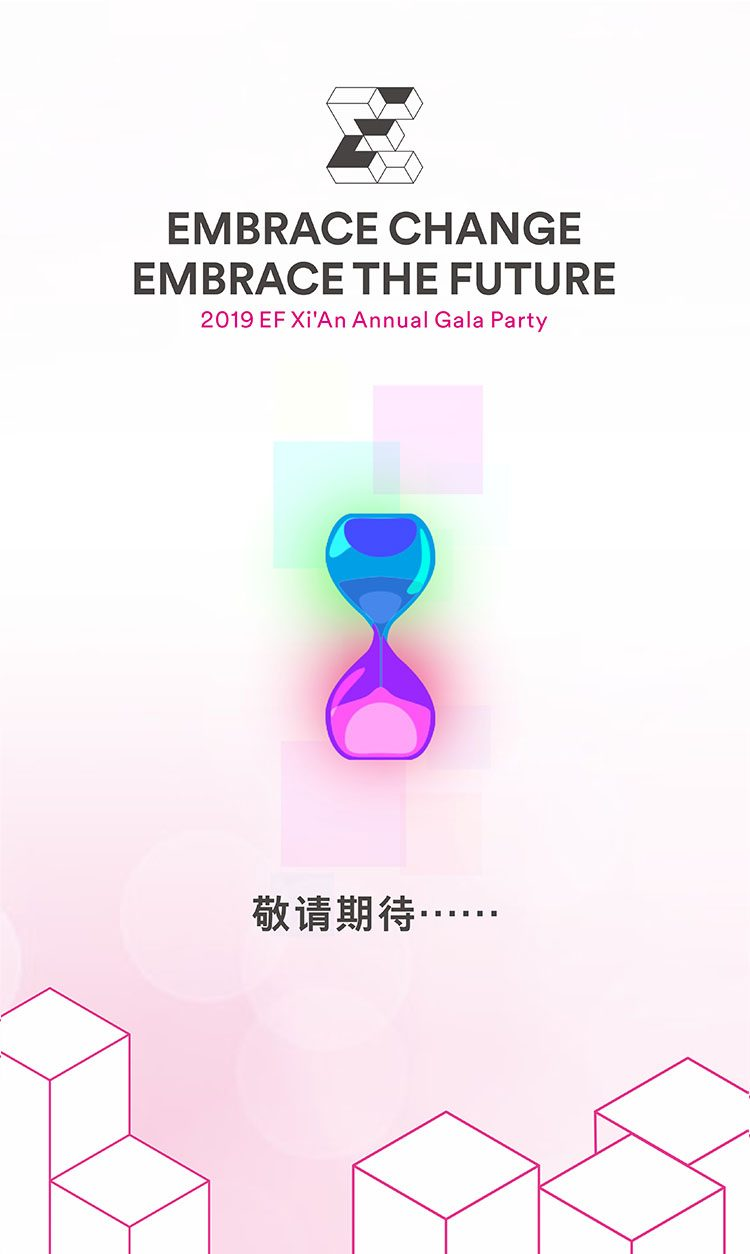
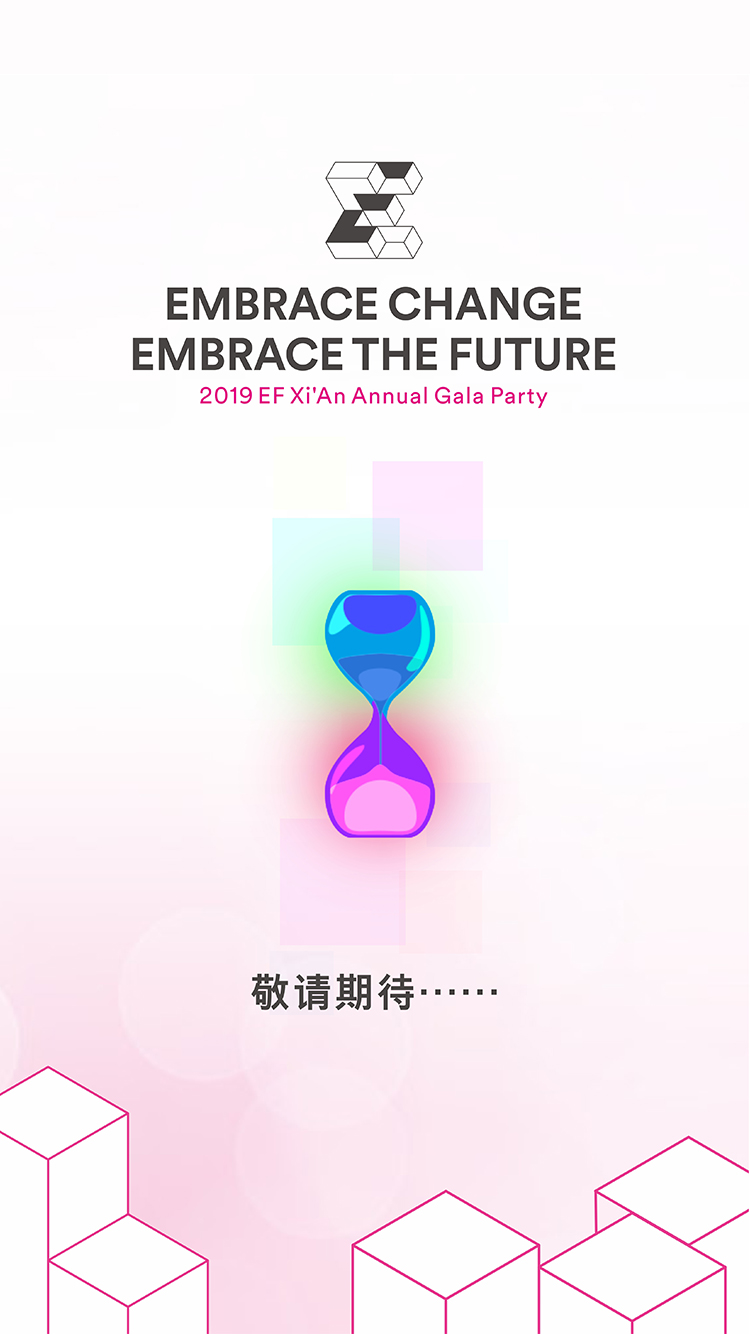
page

diff --git a/pages/Seat-mySeat/Seat-mySeat.vue b/pages/Seat-mySeat/Seat-mySeat.vue
@@ -1,7 +1,8 @@
 <template>
 	<view>
-		<view class="indexBJ" style=""></view>
 		
+		<view class="indexBJ"><image src="../../static/images/img0.jpg" mode=""></image></view>
+		<view class="flexCenter logoIcon"><image src="../../static/images/logo.png" mode="widthFix"></image></view>
 		<view class="campusNav fs13 center">
 			<view class="item" v-for="(item,index) in mainData" :key="index" :data-name="item.title"
 			@click="Router.navigateTo({route:{path:'/pages/details/details?name='+$event.currentTarget.dataset.name}})">{{item.title}}</view>
@@ -65,8 +66,12 @@
 </script>
 
 <style>
-	.indexBJ{width: 100%;height: 100%;background: url(../../static/images/img.jpg) no-repeat 0 0 /100% 100%;position: fixed;top: 0;right: 0; bottom: 0;left: 0;}
-	.campusNav{padding:55% 18% 0 18%;position:relative;z-index: 2;}
-	.campusNav .item{margin-bottom: 8rpx;border: 1px solid #e30083;border-radius: 20rpx;line-height: 60rpx;height: 60rpx;}
+	.indexBJ{width: 100%;height: 100%;position: fixed;top: 0;right: 0; bottom: 0;left: 0;}
+	.indexBJ image{width: 100%;height: 100%; display: block;}
+	
+	.logoIcon{margin: 60rpx 0 5% 0;position: relative;z-index: 6;}
+	.logoIcon image{width: 60%; display: block;}
+	.campusNav{position:relative;z-index: 2;}
+	.campusNav .item{width: 475rpx;margin:0 auto 8rpx auto;border: 1px solid #e30083;border-radius: 16rpx;line-height: 60rpx;height: 60rpx;}
 	
 </style>

diff --git a/pages/index/index.vue b/pages/index/index.vue
@@ -1,6 +1,6 @@
 <template>
 	<view>
-		<view class="indexBJ" style=""></view>
+		<view class="indexBJ" style=""><image src="../../static/images/img.jpg" mode=""></image></view>
 		
 		<view class="indexNav center flexRowBetween">
 			<view class="item" @click="Router.navigateTo({route:{path:'/pages/details/details?name=年会信息'}})">
@@ -56,8 +56,8 @@
 </script>
 
 <style>
-	/* @import "../../assets/style/navbar.css"; */
-	.indexBJ{width: 100%;height: 100%;background: url(../../static/images/img.jpg) no-repeat 0 0 /100% 100%;position: fixed;top: 0;right: 0; bottom: 0;left: 0;}
+	.indexBJ{width: 100%;height: 100%;position: fixed;top: 0;right: 0; bottom: 0;left: 0;}
+	.indexBJ image{width: 100%;height: 100%; display: block;}
 	
 	.indexNav{flex-wrap: wrap;align-items: flex-start;position: relative;z-index: 2;width: 100%;box-sizing: border-box;padding: 50% 8% 0 8%;}
 	.indexNav .item{width: 50%;margin-top: 80rpx;}

diff --git a/pages/Seat/Seat.vue b/pages/Seat/Seat.vue
@@ -1,6 +1,6 @@
 <template>
 	<view>
-		<view class="indexBJ" style=""></view>
+		<view class="indexBJ" style=""><image src="../../static/images/img.jpg" mode=""></image></view>
 		
 		<view class="indexNav center flexRowBetween">
 			<view class="item" @click="Router.navigateTo({route:{path:'/pages/Seat-mySeat/Seat-mySeat'}})">
@@ -46,8 +46,8 @@
 </script>
 
 <style>
-	/* @import "../../assets/style/navbar.css"; */
-	.indexBJ{width: 100%;height: 100%;background: url(../../static/images/img.jpg) no-repeat 0 0 /100% 100%;position: fixed;top: 0;right: 0; bottom: 0;left: 0;}
+	.indexBJ{width: 100%;height: 100%;position: fixed;top: 0;right: 0; bottom: 0;left: 0;}
+	.indexBJ image{width: 100%;height: 100%; display: block;}
 	
 	.indexNav{flex-wrap: wrap;align-items: flex-start;position: relative;z-index: 2;width: 100%;box-sizing: border-box;padding: 75% 8% 0 8%;}
 	.indexNav .item{width: 50%;}

diff --git a/pages/details/details.vue b/pages/details/details.vue
@@ -1,8 +1,8 @@
 <template>
 	<view>
 		<view class="" v-if="is_show">
-			<image  :class="name=='年会信息'?'detailPicA':'detailPic'"
-			:src="mainData.mainImg&&mainData.mainImg.length>0?mainData.mainImg[0].url:'../../static/images/img2.jpg'"  :mode="name=='年会信息'?'':'widthFix'"></image>
+			<image  :class="name=='年会信息'||(mainData.mainImg&&mainData.mainImg.length==0)?'detailPicA':'detailPic'"
+			:src="mainData.mainImg&&mainData.mainImg.length>0?mainData.mainImg[0].url:'../../static/images/img2.jpg'"  :mode="name=='年会信息'||(mainData.mainImg&&mainData.mainImg.length==0)?'':'widthFix'"></image>
 		</view>
 		
 	</view>
